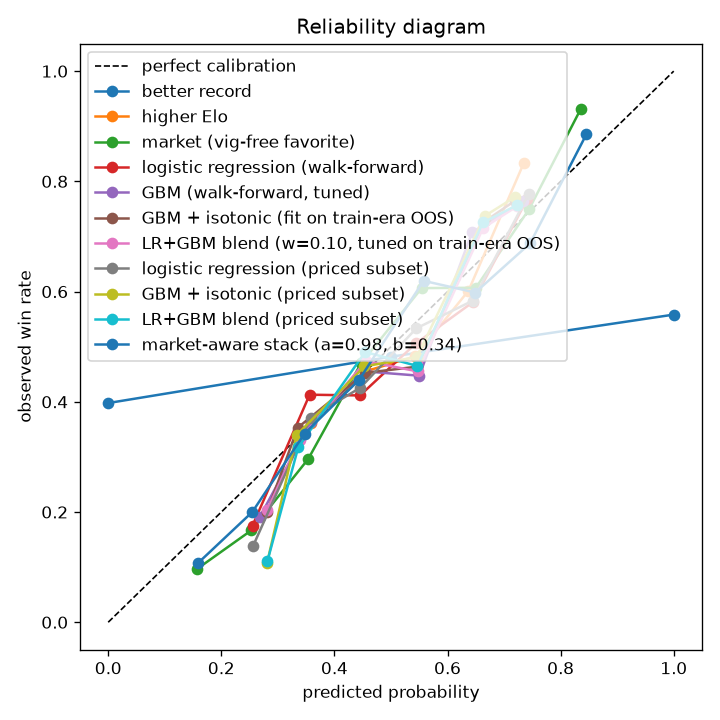
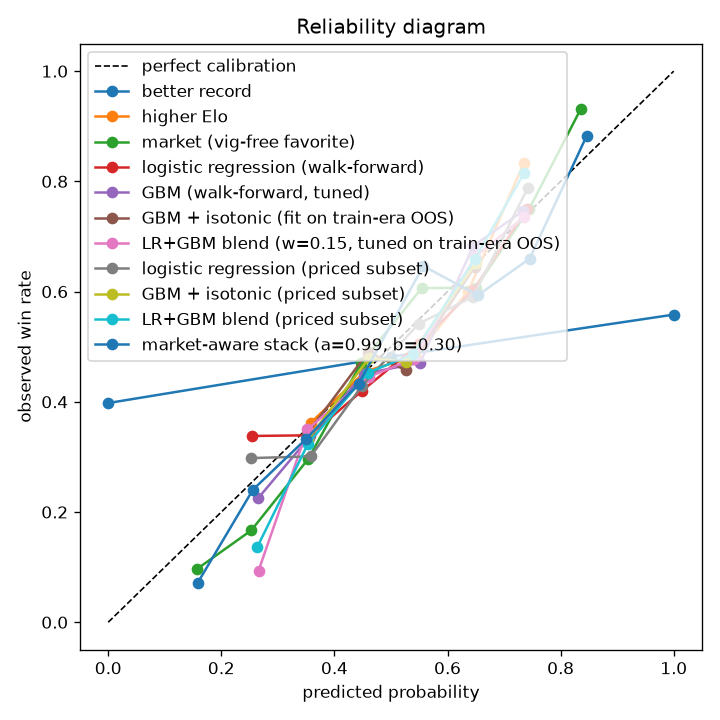
v2.3: domain Elos, 100-trial search, CI-honest market claim
- Striking/grappling Elo updated from per-fight stat differentials (soft
  sigmoid scores) - ablation null on log loss, kept as top SHAP drivers
- 100-trial Optuna on the final feature set: train-era CV 0.6487
- Stack vs market held to a paired bootstrap: -0.0017, CI [-0.0064,+0.0032],
  P(better) ~76% - probably real, not proven, stated as such
- feature_frame assembled via concat (kills fragmentation warning spam)
- UFC 329 re-predicted with the final model

Changed region(s): [[0.2444, 0.1833, 0.825, 0.825]]

diff --git a/src/octagon/features/build.py b/src/octagon/features/build.py
@@ -16,6 +16,7 @@ The builder is a pure function over plain data (no SQL inside) so tests can
 feed it tiny synthetic histories and check the arithmetic by hand.
 """
 
+import math
 import random
 import sqlite3
 from dataclasses import dataclass, field
@@ -234,6 +235,14 @@ def build_feature_rows(
     """
     rng = random.Random(seed)
     elo = Elo(k=elo_k)
+    # Domain ratings (v2.3): Elo books updated from PER-FIGHT STATS instead
+    # of the W/L label. A fighter who out-strikes everyone but keeps losing
+    # split decisions still has elite striking — the result label destroys
+    # that information, the stat differential preserves it. Scores are soft
+    # (sigmoid of the per-minute differential), so a narrow stat edge moves
+    # ratings a little and a one-sided beating moves them a lot.
+    strike_elo = Elo(k=elo_k)
+    grapple_elo = Elo(k=elo_k)
     histories: dict[str, FighterHistory] = {}
     rows: list[dict] = []
 
@@ -244,6 +253,8 @@ def build_feature_rows(
             history = histories.setdefault(name, FighterHistory())
             snaps[corner] = fighter_snapshot(
                 history, on_date, tott_by_name.get(name), elo.get(name))
+            snaps[corner]["strike_elo"] = strike_elo.get(name)
+            snaps[corner]["grapple_elo"] = grapple_elo.get(name)
 
         if bout.winner in ("fighter1", "fighter2", "upcoming"):
             row = {
@@ -290,8 +301,49 @@ def build_feature_rows(
                 stats=own, opp_stats=opp, opp_elo_pre=opp_elo))
         if bout.winner != "nc":  # nothing was decided in a no-contest
             elo.update(bout.fighter1, bout.fighter2, _ELO_SCORES[bout.winner])
+            strike_score = _striking_score(bout)
+            if strike_score is not None:
+                strike_elo.update(bout.fighter1, bout.fighter2, strike_score)
+            grapple_score = _grappling_score(bout)
+            if grapple_score is not None:
+                grapple_elo.update(bout.fighter1, bout.fighter2, grapple_score)
 
     return rows
+
+
+def _soft_score(diff: float, scale: float) -> float:
+    """Map a stat differential to a (0, 1) 'who won this domain' score.
+
+    diff = +scale gives ~0.73, a clear but not total domain win; huge
+    differentials saturate toward 1 instead of growing without bound.
+    """
+    return 1.0 / (1.0 + math.exp(-diff / scale))
+
+
+def _striking_score(bout: Bout) -> float | None:
+    """Fighter1's striking dominance this fight: sig strikes landed per
+    minute, differential, squashed. None when stats/duration are missing."""
+    if not bout.stats1 or not bout.stats2 or not bout.duration_s:
+        return None
+    a, b = bout.stats1.get("sig_landed"), bout.stats2.get("sig_landed")
+    if a is None or b is None:
+        return None
+    minutes = bout.duration_s / 60.0
+    return _soft_score((a - b) / minutes, scale=2.0)
+
+
+def _grappling_score(bout: Bout) -> float | None:
+    """Fighter1's grappling dominance: takedowns plus control-time edge
+    (2 minutes of control ~ 1 takedown), per 15 minutes, squashed."""
+    if not bout.stats1 or not bout.stats2 or not bout.duration_s:
+        return None
+    td_a, td_b = bout.stats1.get("td_landed"), bout.stats2.get("td_landed")
+    if td_a is None or td_b is None:
+        return None
+    ctrl_a = bout.stats1.get("ctrl_seconds") or 0
+    ctrl_b = bout.stats2.get("ctrl_seconds") or 0
+    composite = (td_a - td_b) + (ctrl_a - ctrl_b) / 120.0
+    return _soft_score(composite / (bout.duration_s / 900.0), scale=2.0)
 
 
 def swap_corners(row: dict) -> dict:

diff --git a/src/octagon/models/gbm.py b/src/octagon/models/gbm.py
@@ -47,22 +47,27 @@ def feature_frame(df: pd.DataFrame, market_aware: bool = False,
     NEVER report this variant's accuracy as "our model beat the odds" —
     it IS the odds, plus whatever residual skill the trees find.
     """
-    diffs = sorted(c for c in df.columns if c.startswith("diff_"))
-    X = df[diffs].astype(float).copy()
+    cols = sorted(c for c in df.columns if c.startswith("diff_"))
     if include_raw:
-        raw = sorted(c for c in df.columns
-                     if c.startswith(("f1_", "f2_")) and c not in _NON_FEATURE)
-        for col in raw:
-            X[col] = df[col].astype(float)
-    X["title_fight"] = df["title_fight"].astype(float)
-    X["scheduled_rounds"] = df["scheduled_rounds"].astype(float)
-    X["gender_num"] = (df["gender"] == "F").astype(float)
-    X["weight_class"] = df["weight_class"].astype("category")
+        cols += sorted(c for c in df.columns
+                       if c.startswith(("f1_", "f2_")) and c not in _NON_FEATURE)
+    # Assemble in one concat (not column-by-column inserts, which fragment
+    # the frame and spam PerformanceWarnings on wide feature sets).
+    parts = [df[cols].astype(float)]
+    context = pd.DataFrame({
+        "title_fight": df["title_fight"].astype(float),
+        "scheduled_rounds": df["scheduled_rounds"].astype(float),
+        "gender_num": (df["gender"] == "F").astype(float),
+        "weight_class": df["weight_class"].astype("category"),
+    }, index=df.index)
+    parts.append(context)
     if market_aware:
         p1 = 1.0 / df["f1_odds"].astype(float)
         p2 = 1.0 / df["f2_odds"].astype(float)
-        X["diff_market"] = (p1 - p2) / (p1 + p2)  # fair1 - fair2, vig removed
-    return X
+        parts.append(pd.DataFrame(
+            {"diff_market": (p1 - p2) / (p1 + p2)},  # fair1 - fair2, vig removed
+            index=df.index))
+    return pd.concat(parts, axis=1)
 
 
 def _flip(X: pd.DataFrame) -> pd.DataFrame:

diff --git a/tests/test_features.py b/tests/test_features.py
@@ -138,6 +138,34 @@ def test_no_contest_freezes_elo_and_record():
     assert second["f1_n_fights"] == 1.0
 
 
+def test_domain_elos_move_with_stats_not_results():
+    """The point of domain ratings: a LOSER who dominated the striking
+    still gains striking Elo, because the stats say so."""
+    bouts = [
+        # Alice loses the decision but out-lands Bob 90 to 30.
+        make_bout(1, "2020-01-01", "Alice", "Bob", winner="fighter2",
+                  stats1=make_stats(sig_landed=90, td_landed=0, ctrl_seconds=0),
+                  stats2=make_stats(sig_landed=30, td_landed=4, ctrl_seconds=400)),
+        make_bout(2, "2020-06-01", "Alice", "Bob"),
+    ]
+    rows = build_feature_rows(bouts, {})
+    second = canonical(rows, 2)
+    assert second["f1_elo"] < 1500.0          # result Elo: Alice lost
+    assert second["f1_strike_elo"] > 1500.0   # striking Elo: Alice dominated
+    assert second["f1_grapple_elo"] < 1500.0  # grappling Elo: Bob dominated
+    assert second["diff_strike_elo"] == pytest.approx(
+        second["f1_strike_elo"] - second["f2_strike_elo"])
+
+
+def test_domain_elos_skip_fights_without_stats():
+    no_stats = make_bout(1, "2020-01-01", "Alice", "Bob")
+    no_stats.stats1 = no_stats.stats2 = None
+    rows = build_feature_rows([no_stats, make_bout(2, "2020-06-01", "Alice", "Carol")], {})
+    second = canonical(rows, 2)
+    assert second["f1_strike_elo"] == 1500.0  # nothing measurable happened
+    assert second["f1_elo"] > 1500.0          # but the win still counts
+
+
 def test_style_shares_by_hand():
     """Where strikes land (head/body/leg) and from where (distance/clinch/
     ground), over the last-5 window — checked against hand arithmetic."""

diff --git a/reports/predict_ufc_329_mcgregor_vs_holloway_2.md b/reports/predict_ufc_329_mcgregor_vs_holloway_2.md
@@ -5,71 +5,71 @@ Point-in-time predictions from 8547 historical fights. Educational output — NO
 Name spellings resolved against ufcstats: Benoît Saint Denis -> Benoit Saint Denis; Adrian Yañez -> Adrian Yanez; César Almeida -> Cesar Almeida
 
 ## Conor McGregor vs. Max Holloway — Welterweight
-P(Conor McGregor wins) = 0.330  ->  pick: Max Holloway (67%)
-- method: Conor McGregor by KO 17% / sub 6% / dec 9%; Max Holloway by KO 34% / sub 6% / dec 27%
-- drivers (log-odds): diff_age -0.19, diff_elo -0.17, f1_age -0.10, diff_reach_cm +0.07, diff_ground_absorbed_share_l5 -0.06
+P(Conor McGregor wins) = 0.381  ->  pick: Max Holloway (62%)
+- method: Conor McGregor by KO 17% / sub 8% / dec 13%; Max Holloway by KO 25% / sub 9% / dec 28%
+- drivers (log-odds): diff_age -0.20, diff_strike_elo -0.18, diff_elo -0.15, diff_reach_cm +0.09, f2_layoff_days -0.04
 
 ## Benoit Saint Denis vs. Paddy Pimblett — Lightweight
-P(Benoit Saint Denis wins) = 0.722  ->  pick: Benoit Saint Denis (72%)
-- method: Benoit Saint Denis by KO 34% / sub 10% / dec 28%; Paddy Pimblett by KO 11% / sub 5% / dec 12%
-- drivers (log-odds): diff_td15_l5 +0.13, diff_age +0.11, diff_elo +0.10, diff_sig_acc_l5 +0.06, diff_td_def_l3 +0.06
+P(Benoit Saint Denis wins) = 0.775  ->  pick: Benoit Saint Denis (77%)
+- method: Benoit Saint Denis by KO 27% / sub 13% / dec 38%; Paddy Pimblett by KO 10% / sub 3% / dec 9%
+- drivers (log-odds): diff_strike_elo +0.14, diff_age +0.12, diff_sig_acc_l5 +0.09, diff_grapple_elo +0.09, diff_elo +0.08
 
 ## Cory Sandhagen vs. Mario Bautista — Bantamweight
-P(Cory Sandhagen wins) = 0.499  ->  NO CALL (abstain band)
-- method: Cory Sandhagen by KO 12% / sub 5% / dec 33%; Mario Bautista by KO 9% / sub 6% / dec 36%
-- drivers (log-odds): diff_opp_elo_l5 +0.15, diff_age -0.06, f2_td_def_l3 +0.04, diff_slpm_l5 -0.03, diff_elo +0.03
+P(Cory Sandhagen wins) = 0.572  ->  pick: Cory Sandhagen (57%)
+- method: Cory Sandhagen by KO 14% / sub 7% / dec 36%; Mario Bautista by KO 11% / sub 8% / dec 24%
+- drivers (log-odds): diff_strike_elo +0.26, diff_opp_elo_l5 +0.14, diff_age -0.09, f2_age -0.06, diff_elo +0.05
 
 ## Brandon Royval vs. Lone'er Kavanagh — Flyweight
-P(Brandon Royval wins) = 0.331  ->  pick: Lone'er Kavanagh (67%)
-- method: Brandon Royval by KO 8% / sub 8% / dec 18%; Lone'er Kavanagh by KO 24% / sub 8% / dec 35%
-- drivers (log-odds): diff_age -0.22, f1_age -0.12, diff_opp_elo_l5 +0.10, diff_sig_def_l5 -0.08, f2_age -0.08
+P(Brandon Royval wins) = 0.333  ->  pick: Lone'er Kavanagh (67%)
+- method: Brandon Royval by KO 8% / sub 6% / dec 19%; Lone'er Kavanagh by KO 23% / sub 6% / dec 38%
+- drivers (log-odds): diff_age -0.28, diff_strike_elo +0.24, f1_age -0.09, f2_grapple_elo -0.08, diff_opp_elo_l5 +0.08
 
 ## King Green vs. Terrance McKinney — Lightweight
-P(King Green wins) = 0.520  ->  NO CALL (abstain band)
-- method: King Green by KO 18% / sub 11% / dec 24%; Terrance McKinney by KO 24% / sub 8% / dec 16%
-- drivers (log-odds): diff_age -0.28, diff_sapm_l5 +0.13, f2_age -0.10, f2_sig_def_l3 +0.07, diff_elo +0.07
+P(King Green wins) = 0.554  ->  pick: King Green (55%)
+- method: King Green by KO 18% / sub 12% / dec 26%; Terrance McKinney by KO 22% / sub 7% / dec 16%
+- drivers (log-odds): diff_age -0.26, diff_strike_elo +0.21, f2_age -0.12, f1_age -0.10, diff_elo +0.09
 
 ## Robert Whittaker vs. Nikita Krylov — Light Heavyweight
-P(Robert Whittaker wins) = 0.474  ->  NO CALL (abstain band)
-- method: Robert Whittaker by KO 12% / sub 6% / dec 29%; Nikita Krylov by KO 19% / sub 7% / dec 27%
-- drivers (log-odds): diff_elo +0.15, diff_age -0.13, diff_td15_l5 -0.12, diff_opp_elo_l5 +0.07, diff_td_def_l5 +0.05
+P(Robert Whittaker wins) = 0.478  ->  NO CALL (abstain band)
+- method: Robert Whittaker by KO 17% / sub 6% / dec 24%; Nikita Krylov by KO 17% / sub 10% / dec 25%
+- drivers (log-odds): diff_age -0.10, diff_strike_elo +0.09, diff_opp_elo_l5 +0.09, diff_elo +0.09, diff_sig_acc_l5 +0.06
 
 ## Gable Steveson vs. Elisha Ellison — Heavyweight
-P(Gable Steveson wins) = 0.484  ->  NO CALL (abstain band)
+P(Gable Steveson wins) = 0.512  ->  NO CALL (abstain band)
 - CAUTION: no UFC history for Gable Steveson (debut or misspelled name?) — prediction is weak.
-- method: Gable Steveson by KO 28% / sub 7% / dec 13%; Elisha Ellison by KO 24% / sub 11% / dec 17%
-- drivers (log-odds): f2_reach_cm -0.50, f1_reach_cm -0.35, diff_height_cm +0.30, f1_height_cm +0.15, diff_age +0.14
+- method: Gable Steveson by KO 33% / sub 5% / dec 13%; Elisha Ellison by KO 21% / sub 11% / dec 16%
+- drivers (log-odds): f2_reach_cm -0.41, f1_reach_cm -0.39, diff_height_cm +0.31, diff_age +0.13, diff_strike_elo +0.12
 
 ## Cody Garbrandt vs. Adrian Yanez — Bantamweight
-P(Cody Garbrandt wins) = 0.412  ->  pick: Adrian Yanez (59%)
-- method: Cody Garbrandt by KO 8% / sub 4% / dec 29%; Adrian Yanez by KO 18% / sub 7% / dec 33%
-- drivers (log-odds): diff_age -0.14, diff_sapm_l5 +0.09, diff_opp_elo_l5 -0.09, f2_sapm_l5 +0.06, diff_sig_acc_l5 +0.05
+P(Cody Garbrandt wins) = 0.335  ->  pick: Adrian Yanez (66%)
+- method: Cody Garbrandt by KO 8% / sub 6% / dec 20%; Adrian Yanez by KO 21% / sub 7% / dec 38%
+- drivers (log-odds): diff_strike_elo -0.25, diff_age -0.13, diff_opp_elo_l5 -0.09, diff_reach_cm -0.06, diff_td_def_l5 +0.05
 
 ## Luke Riley vs. Kai Kamaka III — Featherweight
-P(Luke Riley wins) = 0.676  ->  pick: Luke Riley (68%)
-- method: Luke Riley by KO 24% / sub 11% / dec 32%; Kai Kamaka III by KO 14% / sub 6% / dec 13%
-- drivers (log-odds): f1_age +0.18, f2_age +0.14, diff_sapm_l5 +0.09, f2_reach_cm +0.08, diff_elo +0.07
+P(Luke Riley wins) = 0.674  ->  pick: Luke Riley (67%)
+- method: Luke Riley by KO 27% / sub 9% / dec 31%; Kai Kamaka III by KO 13% / sub 6% / dec 14%
+- drivers (log-odds): f2_age +0.17, f1_age +0.14, diff_strike_elo +0.13, f1_reach_cm +0.09, diff_wins +0.08
 
 ## Tracy Cortez vs. Wang Cong — Women's Flyweight
-P(Tracy Cortez wins) = 0.498  ->  NO CALL (abstain band)
-- method: Tracy Cortez by KO 8% / sub 10% / dec 32%; Wang Cong by KO 9% / sub 4% / dec 37%
-- drivers (log-odds): diff_opp_elo_l5 +0.18, diff_age +0.07, f2_age +0.07, diff_sig_acc_l5 -0.07, diff_elo +0.07
+P(Tracy Cortez wins) = 0.491  ->  NO CALL (abstain band)
+- method: Tracy Cortez by KO 8% / sub 9% / dec 32%; Wang Cong by KO 11% / sub 3% / dec 37%
+- drivers (log-odds): diff_strike_elo -0.23, diff_opp_elo_l5 +0.14, diff_age +0.10, diff_grapple_elo +0.09, diff_td_def_l5 -0.08
 
 ## Damian Pinas vs. Cesar Almeida — Middleweight
-P(Damian Pinas wins) = 0.728  ->  pick: Damian Pinas (73%)
-- method: Damian Pinas by KO 43% / sub 8% / dec 23%; Cesar Almeida by KO 8% / sub 6% / dec 14%
-- drivers (log-odds): diff_age +0.22, f1_age +0.17, f2_age +0.11, diff_reach_cm +0.06, diff_td_def_l5 +0.06
+P(Damian Pinas wins) = 0.776  ->  pick: Damian Pinas (78%)
+- method: Damian Pinas by KO 48% / sub 9% / dec 21%; Cesar Almeida by KO 8% / sub 4% / dec 10%
+- drivers (log-odds): diff_age +0.32, f2_age +0.15, f1_age +0.10, diff_strike_elo -0.07, f1_reach_cm +0.07
 
 ## Ryan Gandra vs. Zachary Reese — Middleweight
-P(Ryan Gandra wins) = 0.587  ->  pick: Ryan Gandra (59%)
+P(Ryan Gandra wins) = 0.620  ->  pick: Ryan Gandra (62%)
 - CAUTION: no UFC history for Zachary Reese (debut or misspelled name?) — prediction is weak.
-- method: Ryan Gandra by KO 24% / sub 11% / dec 23%; Zachary Reese by KO 16% / sub 7% / dec 19%
-- drivers (log-odds): f1_sapm_l5 +0.05, f2_sig_def_l5 -0.05, f2_sapm_l5 +0.04, diff_elo +0.03, f1_layoff_days +0.03
+- method: Ryan Gandra by KO 25% / sub 11% / dec 26%; Zachary Reese by KO 15% / sub 7% / dec 16%
+- drivers (log-odds): diff_strike_elo +0.14, diff_age +0.06, f2_sapm_l5 +0.05, f1_sapm_l3 +0.03, diff_elo +0.03
 
 ## Alessandro Costa vs. Cody Durden — Flyweight
-P(Alessandro Costa wins) = 0.667  ->  pick: Alessandro Costa (67%)
-- method: Alessandro Costa by KO 21% / sub 8% / dec 38%; Cody Durden by KO 6% / sub 5% / dec 23%
-- drivers (log-odds): diff_age +0.14, f1_age +0.10, diff_opp_elo_l5 -0.09, f2_age +0.08, diff_elo +0.08
+P(Alessandro Costa wins) = 0.596  ->  pick: Alessandro Costa (60%)
+- method: Alessandro Costa by KO 16% / sub 6% / dec 38%; Cody Durden by KO 6% / sub 6% / dec 29%
+- drivers (log-odds): diff_age +0.17, diff_strike_elo +0.15, diff_grapple_elo -0.10, diff_opp_elo_l5 -0.08, f2_age +0.07
 
 ---
 *Simulation/educational project. No betting advice. The market knows more than this model.*

diff --git a/reports/evaluation_valid.md b/reports/evaluation_valid.md
@@ -1,6 +1,6 @@
 # Evaluation report — valid split
 
-Generated 2026-07-07 04:08 UTC. Fights dated (2021-12-31, 2023-12-31]. Walk-forward windows: 2022-01-01->2022-06-30, 2022-07-01->2022-12-31, 2023-01-01->2023-06-30, 2023-07-01->2023-12-16
+Generated 2026-07-09 00:42 UTC. Fights dated (2021-12-31, 2023-12-31]. Walk-forward windows: 2022-01-01->2022-06-30, 2022-07-01->2022-12-31, 2023-01-01->2023-06-30, 2023-07-01->2023-12-16
 
 | model | n | accuracy | log loss | Brier | ROC AUC | ECE | note |
 |---|---|---|---|---|---|---|---|
@@ -8,14 +8,14 @@ Generated 2026-07-07 04:08 UTC. Fights dated (2021-12-31, 2023-12-31]. Walk-forw
 | better record | 1010 | 0.5713 | 10.4166 | 0.4015 | 0.5794 | 0.3762 |  |
 | higher Elo | 1010 | 0.5564 | 0.6806 | 0.2437 | 0.5908 | 0.0313 |  |
 | market (vig-free favorite) | 697 | 0.6793 | 0.6035 | 0.2084 | 0.7344 | 0.0475 | priced fights only |
-| logistic regression (walk-forward) | 1010 | 0.6010 | 0.6509 | 0.2302 | 0.6522 | 0.0464 |  |
-| GBM (walk-forward, tuned) | 1010 | 0.5911 | 0.6555 | 0.2318 | 0.6519 | 0.0474 |  |
-| GBM + isotonic (fit on train-era OOS) | 1010 | 0.5931 | 0.6547 | 0.2313 | 0.6523 | 0.0461 |  |
-| LR+GBM blend (w=0.10, tuned on train-era OOS) | 1010 | 0.5881 | 0.6530 | 0.2306 | 0.6558 | 0.0478 |  |
-| logistic regression (priced subset) | 697 | 0.6098 | 0.6466 | 0.2281 | 0.6635 | 0.0320 | same fights as market row |
-| GBM + isotonic (priced subset) | 697 | 0.6011 | 0.6467 | 0.2276 | 0.6668 | 0.0492 | same fights as market row |
-| LR+GBM blend (priced subset) | 697 | 0.5925 | 0.6453 | 0.2271 | 0.6698 | 0.0594 | same fights as market row |
-| market-aware stack (a=0.98, b=0.34) | 697 | 0.6801 | 0.6000 | 0.2073 | 0.7354 | 0.0382 | IS the odds + residual skill — never 'beat the odds' |
+| logistic regression (walk-forward) | 1010 | 0.6109 | 0.6548 | 0.2320 | 0.6494 | 0.0369 |  |
+| GBM (walk-forward, tuned) | 1010 | 0.5960 | 0.6580 | 0.2330 | 0.6472 | 0.0361 |  |
+| GBM + isotonic (fit on train-era OOS) | 1010 | 0.5921 | 0.6564 | 0.2325 | 0.6465 | 0.0327 |  |
+| LR+GBM blend (w=0.15, tuned on train-era OOS) | 1010 | 0.6020 | 0.6546 | 0.2317 | 0.6495 | 0.0298 |  |
+| logistic regression (priced subset) | 697 | 0.6241 | 0.6497 | 0.2295 | 0.6611 | 0.0358 | same fights as market row |
+| GBM + isotonic (priced subset) | 697 | 0.5983 | 0.6526 | 0.2307 | 0.6532 | 0.0315 | same fights as market row |
+| LR+GBM blend (priced subset) | 697 | 0.6069 | 0.6505 | 0.2298 | 0.6566 | 0.0323 | same fights as market row |
+| market-aware stack (a=0.99, b=0.30) | 697 | 0.6786 | 0.6018 | 0.2081 | 0.7329 | 0.0485 | IS the odds + residual skill — never 'beat the odds' |
 
 Reading guide: 'better record' is a picking rule (0/0.5/1 outputs) — its log loss is meaningless by design; compare models on log loss / Brier / ECE against the market row, on accuracy against all rows.
 
@@ -27,21 +27,21 @@ Positive means: the bigger fighter1's edge in this differential, the likelier fi
 
 | feature | coefficient |
 |---|---|
-| diff_elo | +0.331 |
-| diff_age | -0.293 |
-| diff_td15_l5 | +0.250 |
-| diff_sapm_l5 | -0.240 |
-| diff_td15_l3 | -0.176 |
-| diff_fights_12m | +0.163 |
-| diff_dec_win_rate | -0.150 |
-| diff_opp_elo_l5 | +0.135 |
-| diff_avg_fight_min | +0.128 |
-| diff_sapm_l3 | +0.108 |
-| diff_fights_24m | +0.102 |
-| diff_losses | +0.101 |
-| diff_reach_cm | +0.097 |
-| diff_td_def_l3 | +0.087 |
-| diff_slpm_l5 | +0.087 |
+| diff_age | -0.289 |
+| diff_td15_l5 | +0.240 |
+| diff_strike_elo | +0.235 |
+| diff_sapm_l5 | -0.221 |
+| diff_dec_win_rate | -0.203 |
+| diff_td15_l3 | -0.193 |
+| diff_elo | +0.188 |
+| diff_fights_12m | +0.164 |
+| diff_grapple_elo | +0.161 |
+| diff_losses | +0.161 |
+| diff_sapm_l3 | +0.146 |
+| diff_n_fights | -0.138 |
+| diff_ko_win_rate | -0.134 |
+| diff_avg_fight_min | +0.123 |
+| diff_win_pct | +0.122 |
 
 ---
 *Honest context: 'always pick the favorite' wins ~65% of priced fights and the vig-free market's log loss is ~0.62. Beating the record/Elo baselines is expected; approaching the market is the actual fight.*

diff --git a/README.md b/README.md
@@ -195,11 +195,21 @@ symmetry stays exact (raw columns exchange, diffs negate; tested to 1e-12).
 Also tested and rejected honestly: method-aware Elo (finishes moving ratings
 more) — best variant −0.0005, not worth the parameter.
 
-With the stronger skill model, the market-aware stack now beats the market
-on **all four metrics** on priced validation fights: log loss 0.6000 vs
-0.6035, accuracy 68.0% vs 67.9%, AUC 0.735 vs 0.734, ECE 0.038 vs 0.048 —
-still a small edge, still not bettable after vig, still reported under
-PRD 5.6's rule.
+With the stronger skill model, the market-aware stack edges the market on
+priced validation fights — current artifact: log loss 0.6018 vs 0.6035.
+Held to the same standard as everything else, the **paired bootstrap** says:
+Δ = −0.0017, 95% CI [−0.0064, +0.0032], P(stack better) ≈ 76%. Probably a
+real sliver of an edge, not statistically proven on 697 fights, far smaller
+than the vig, and reported under PRD 5.6's rule (the stack IS the odds).
+
+**v2.3 additions**: domain ratings — striking-Elo and grappling-Elo updated
+from per-fight *stat differentials* rather than W/L (a fighter who out-lands
+everyone but drops split decisions keeps his striking rating). Ablation
+verdict: null on log loss (paired CI [−0.0023, +0.0037], accuracy +0.3pp) —
+kept because SHAP now uses them as top drivers in most fights, a good
+reminder that *importance* and *marginal predictive value* are different
+things. Also: 100-trial Optuna search (train-era CV 0.6487, from 0.6557
+at 40 trials).
 
 `octagon fetch-card` scrapes the next UFC event's announced card from
 Wikipedia (proper API, no bot walls) into a ready-to-predict YAML, resolving
